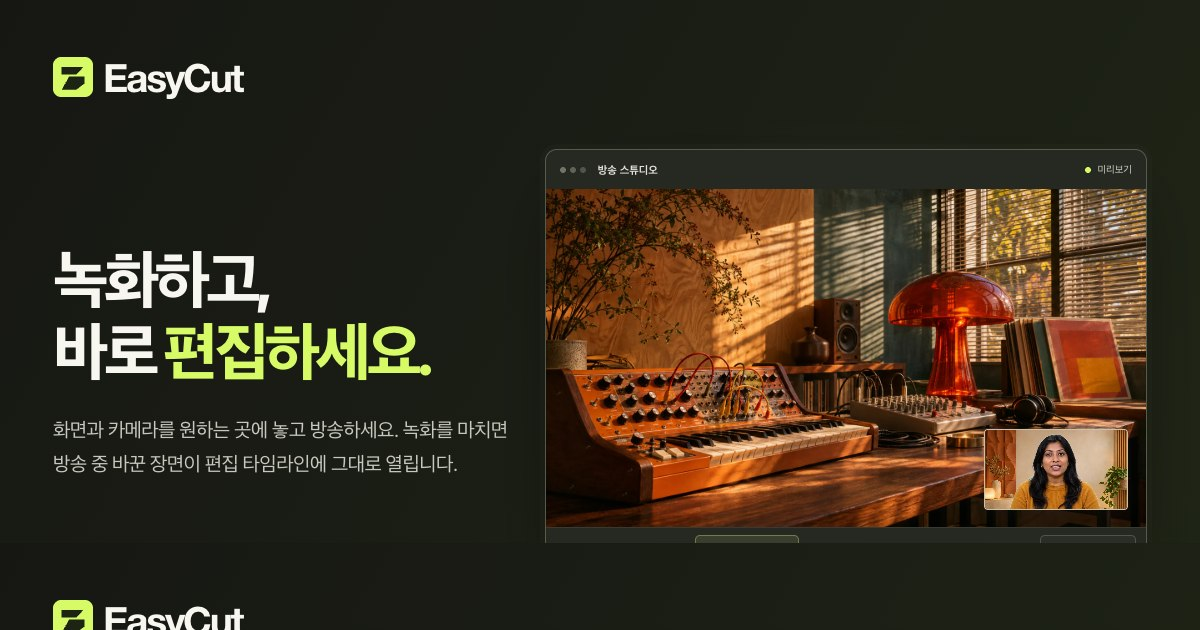
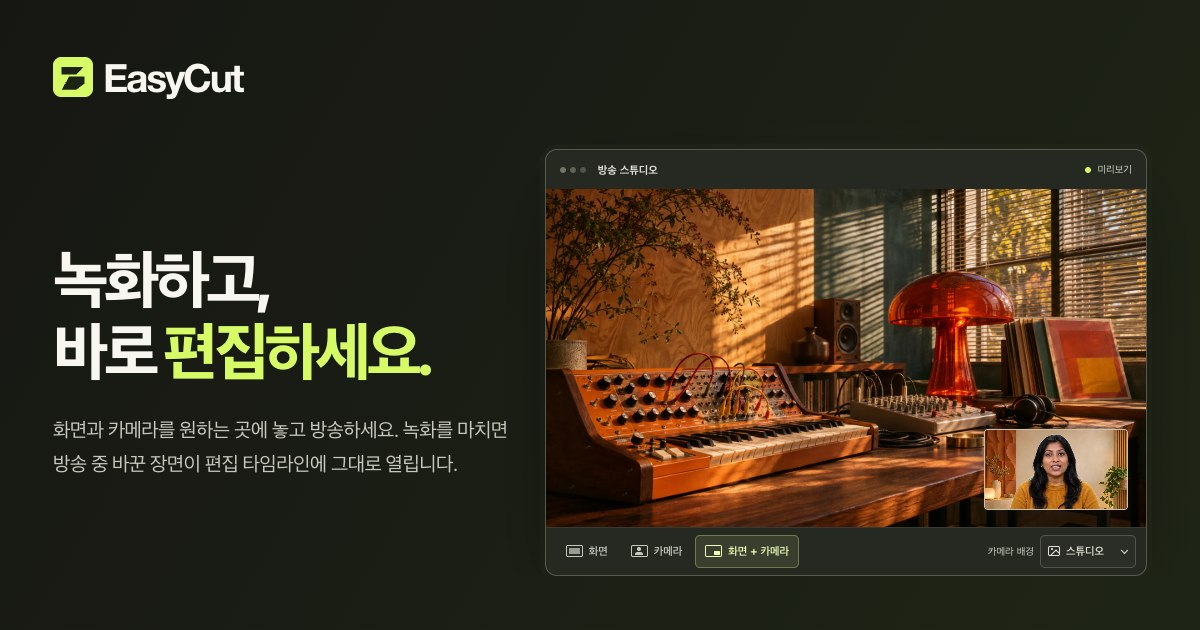
Offer camera background releases directly and link their public source

diff --git a/docs/index.html b/docs/index.html
@@ -27,8 +27,8 @@
   <script type="application/ld+json">
   {"@context":"https://schema.org","@graph":[
     {"@type":"Organization","@id":"https://contenjoo.github.io/easycut/#publisher","name":"주식회사 오늘배움","url":"https://learntoday.kr/services"},
-    {"@type":"SoftwareApplication","@id":"https://contenjoo.github.io/easycut/#mac","name":"EasyCut for Mac","applicationCategory":"MultimediaApplication","operatingSystem":"macOS 14 or later, Apple Silicon","softwareVersion":"1.18.1","url":"https://contenjoo.github.io/easycut/","downloadUrl":"https://github.com/contenjoo/easycut/releases/download/v1.18.1/EasyCut-1.18.1.dmg","offers":{"@type":"Offer","price":"0","priceCurrency":"KRW"},"publisher":{"@id":"https://contenjoo.github.io/easycut/#publisher"},"featureList":["화면·카메라 녹화","YouTube 방송 예약과 송출","장면별 타임라인","대본 편집과 자동 자막","AI 영상 만들기"]},
-    {"@type":"SoftwareApplication","@id":"https://contenjoo.github.io/easycut/#windows","name":"EasyCut for Windows","applicationCategory":"MultimediaApplication","operatingSystem":"Windows 10 or 11, x64","softwareVersion":"0.11.0","url":"https://contenjoo.github.io/easycut/","downloadUrl":"https://github.com/contenjoo/easycut/releases/download/win-v0.11.0/EasyCut_0.11.0_x64-setup.exe","offers":{"@type":"Offer","price":"0","priceCurrency":"KRW"},"publisher":{"@id":"https://contenjoo.github.io/easycut/#publisher"},"featureList":["화면·카메라 녹화","Google 계정으로 YouTube 방송","장면별 타임라인","대본 편집과 자동 자막","AI 영상 만들기"]}
+    {"@type":"SoftwareApplication","@id":"https://contenjoo.github.io/easycut/#mac","name":"EasyCut for Mac","applicationCategory":"MultimediaApplication","operatingSystem":"macOS 14 or later, Apple Silicon","softwareVersion":"1.19.0","url":"https://contenjoo.github.io/easycut/","downloadUrl":"https://github.com/contenjoo/easycut/releases/download/v1.19.0/EasyCut-1.19.0.dmg","offers":{"@type":"Offer","price":"0","priceCurrency":"KRW"},"publisher":{"@id":"https://contenjoo.github.io/easycut/#publisher"},"featureList":["화면·카메라 녹화","카메라 배경 흐림·기본 배경 4종·내 사진","YouTube 방송 예약과 송출","장면별 타임라인","대본 편집과 자동 자막","AI 영상 만들기"]},
+    {"@type":"SoftwareApplication","@id":"https://contenjoo.github.io/easycut/#windows","name":"EasyCut for Windows","applicationCategory":"MultimediaApplication","operatingSystem":"Windows 10 or 11, x64","softwareVersion":"0.12.0","url":"https://contenjoo.github.io/easycut/","downloadUrl":"https://github.com/contenjoo/easycut/releases/download/win-v0.12.0/EasyCut_0.12.0_x64-setup.exe","offers":{"@type":"Offer","price":"0","priceCurrency":"KRW"},"publisher":{"@id":"https://contenjoo.github.io/easycut/#publisher"},"featureList":["화면·카메라 녹화","카메라 배경 흐림·기본 배경 4종·내 사진","Google 계정으로 YouTube 방송","장면별 타임라인","대본 편집과 자동 자막","AI 영상 만들기"]}
   ]}
   </script>
 </head>
@@ -37,11 +37,11 @@
   <header class="mast">
     <div class="wrap mast-inner">
       <a class="brand" href="#top" aria-label="EasyCut 홈"><span class="brand-sign" aria-hidden="true"></span><span>EasyCut</span></a>
-      <nav class="main-nav" aria-label="주 메뉴"><a href="#studio">방송 스튜디오</a><a href="#features">편집 도구</a><a href="#backgrounds">카메라 배경</a></nav>
+      <nav class="main-nav" aria-label="주 메뉴"><a href="#studio">방송 스튜디오</a><a href="#features">편집 도구</a><a href="#backgrounds">카메라 배경</a><a href="#source">소스 코드</a></nav>
       <div class="mast-actions"><a class="header-download" href="#install">다운로드 <span aria-hidden="true">↓</span></a>
         <button class="nav-toggle" type="button" aria-label="메뉴 열기" aria-expanded="false" aria-controls="mobile-nav"><i aria-hidden="true"></i></button></div>
     </div>
-    <nav id="mobile-nav" aria-label="모바일 메뉴" hidden><a href="#studio">방송 스튜디오</a><a href="#features">편집 도구</a><a href="#backgrounds">카메라 배경</a><a href="#install">설치 안내</a></nav>
+    <nav id="mobile-nav" aria-label="모바일 메뉴" hidden><a href="#studio">방송 스튜디오</a><a href="#features">편집 도구</a><a href="#backgrounds">카메라 배경</a><a href="#install">설치 안내</a><a href="#source">소스 코드</a></nav>
   </header>
   <main id="main">
     <div class="studio-band" id="studio">
@@ -102,9 +102,9 @@
     <section class="rooms" id="backgrounds" aria-labelledby="rooms-title">
       <div class="wrap">
         <div class="section-intro">
-          <div><p class="overline"><span aria-hidden="true" class="mini-cut"></span>카메라 배경 <span class="edition-tag">테스트판</span></p>
+          <div><p class="overline"><span aria-hidden="true" class="mini-cut"></span>카메라 배경</p>
             <h2 id="rooms-title">어디에서 찍든,<br>원하는 배경으로.</h2></div>
-          <div class="section-aside"><p>인물은 선명하게 두고 뒤쪽만 흐리거나 내 사진을 넣으세요. 기본 배경을 선택하면 스튜디오에서 적용한 모습을 볼 수 있습니다.</p><a class="text-link" href="#test-builds">테스트판 안내 <span aria-hidden="true">↘</span></a></div>
+          <div class="section-aside"><p>배경만 흐리거나 내 사진을 넣어 녹화하세요. 아래 기본 배경을 누르면 발표자에게 적용한 모습을 미리 볼 수 있습니다.</p><a class="text-link" href="#install">EasyCut 다운로드 <span aria-hidden="true">↘</span></a></div>
         </div>
         <div class="room-grid">
           <a class="room-card" href="site/media/demo-studio.webp" data-room="studio" aria-label="스튜디오 배경 미리보기"><img src="site/media/room-studio.webp" width="544" height="306" loading="lazy" alt="따뜻한 테라코타 벽과 나무 패널"><span>스튜디오<i aria-hidden="true">↗</i></span></a>
@@ -124,10 +124,17 @@
     <section class="download-area" id="install" aria-labelledby="install-title"><div class="wrap">
       <div class="section-intro"><div><p class="overline"><span class="mini-cut" aria-hidden="true"></span> 정식 배포판</p><h2 id="install-title">EasyCut 다운로드</h2></div><p class="section-aside">기본 녹화·방송·편집은 무료입니다.<br>AI 구독과 API 사용료는 별도입니다.</p></div>
       <div class="download-grid">
-        <article class="os-panel" id="mac"><div class="os-head"><h3>Mac</h3><span class="version">v1.18.1</span></div><p>Apple Silicon M1 이상 · macOS 14 이상</p><a class="file-action" href="https://github.com/contenjoo/easycut/releases/download/v1.18.1/EasyCut-1.18.1.dmg">Mac용 다운로드 <span aria-hidden="true">↓</span></a><details><summary>설치 방법</summary><p>DMG를 열어 EasyCut을 응용 프로그램 폴더로 옮기세요. 처음 실행할 때 macOS가 확인을 요구하면 시스템 설정의 개인정보 보호 및 보안에서 앱 이름을 확인하세요.</p></details></article>
-        <article class="os-panel" id="windows"><div class="os-head"><h3>Windows</h3><span class="version">v0.11.0</span></div><p>Windows 10·11 · 64비트(x64)</p><a class="file-action" href="https://github.com/contenjoo/easycut/releases/download/win-v0.11.0/EasyCut_0.11.0_x64-setup.exe">Windows용 다운로드 <span aria-hidden="true">↓</span></a><details><summary>설치 방법</summary><p>받은 EXE 파일을 실행하고 설치 안내를 따르세요. 이 설치본에는 게시자 서명이 없어 Windows SmartScreen이 확인을 요청할 수 있습니다.</p></details></article>
+        <article class="os-panel" id="mac"><div class="os-head"><h3>Mac</h3><span class="version">v1.19.0</span></div><p>Apple Silicon M1 이상 · macOS 14 이상</p><a class="file-action" href="https://github.com/contenjoo/easycut/releases/download/v1.19.0/EasyCut-1.19.0.dmg">Mac용 다운로드 <span aria-hidden="true">↓</span></a><details><summary>설치 방법</summary><p>DMG를 열어 EasyCut을 응용 프로그램 폴더로 옮기세요. 처음 실행할 때 macOS가 확인을 요구하면 시스템 설정의 개인정보 보호 및 보안에서 앱 이름을 확인하세요.</p></details></article>
+        <article class="os-panel" id="windows"><div class="os-head"><h3>Windows</h3><span class="version">v0.12.0</span></div><p>Windows 10·11 · 64비트(x64)</p><a class="file-action" href="https://github.com/contenjoo/easycut/releases/download/win-v0.12.0/EasyCut_0.12.0_x64-setup.exe">Windows용 다운로드 <span aria-hidden="true">↓</span></a><details><summary>설치 방법</summary><p>받은 EXE 파일을 실행하고 설치 안내를 따르세요. 이 설치본에는 게시자 서명이 없어 Windows SmartScreen이 확인을 요청할 수 있습니다.</p></details></article>
       </div>
-      <aside id="test-builds" class="test-note"><div><h3>카메라 배경 테스트판</h3><p>Windows 0.12.0은 GitHub 로그인 후 ZIP으로 받을 수 있습니다. Mac 1.19.0은 테스트를 마쳤으며 아직 공개 전입니다.</p></div><a class="text-link" href="https://github.com/login?return_to=%2Fcontenjoo%2Feasycut%2Factions%2Fruns%2F44996436269%2Fartifacts%2F14744187055">Windows 테스트판 받기 <span aria-hidden="true">↗</span></a></aside>
+      <aside id="source" class="source-note" aria-labelledby="source-title">
+        <div><h3 id="source-title">EasyCut 소스 코드</h3><p>EasyCut은 MIT 라이선스로 공개한 오픈소스 영상 편집기입니다.</p></div>
+        <nav class="source-links" aria-label="소스 코드 보기">
+          <a class="text-link" href="https://github.com/contenjoo/easycut">전체 저장소 <span aria-hidden="true">↗</span></a>
+          <a class="text-link" href="https://github.com/contenjoo/easycut/tree/v1.19.0">Mac 1.19.0 소스 <span aria-hidden="true">↗</span></a>
+          <a class="text-link" href="https://github.com/contenjoo/easycut/tree/win-v0.12.0">Windows 0.12.0 소스 <span aria-hidden="true">↗</span></a>
+        </nav>
+      </aside>
     </div></section>
     <section class="faq paper" id="faq" aria-labelledby="faq-title"><div class="wrap extras-inner">
       <div><h2 id="faq-title">시작하기 전에</h2></div>
@@ -137,6 +144,6 @@
         <details><summary>자막과 완성 영상은 어떤 형식으로 저장하나요?<span aria-hidden="true"></span></summary><p>대본으로 자막을 만들거나 SRT 자막을 가져올 수 있습니다. 편집을 마친 영상은 MP4로 내보내고 자막은 SRT 파일로도 저장할 수 있습니다.</p></details>
       </div></div></section>
   </main>
-  <footer><div class="wrap foot-inner"><a class="brand" href="#top" aria-label="EasyCut 처음으로"><span class="brand-sign" aria-hidden="true"></span><span>EasyCut</span></a><div class="foot-links"><a href="youtube-privacy.html">개인정보처리방침</a><a href="youtube-terms.html">이용조건</a><a href="https://github.com/contenjoo/easycut">GitHub ↗</a><a href="https://learntoday.kr/services">주식회사 오늘배움 ↗</a></div></div></footer>
+  <footer><div class="wrap foot-inner"><a class="brand" href="#top" aria-label="EasyCut 처음으로"><span class="brand-sign" aria-hidden="true"></span><span>EasyCut</span></a><div class="foot-links"><a href="youtube-privacy.html">개인정보처리방침</a><a href="youtube-terms.html">이용조건</a><a href="https://github.com/contenjoo/easycut">소스 코드 (GitHub) ↗</a><a href="https://learntoday.kr/services">주식회사 오늘배움 ↗</a></div></div></footer>
 </body>
 </html>

diff --git a/docs/site/home.css b/docs/site/home.css
@@ -44,7 +44,7 @@
 .rooms,.download-area,.extras,.faq{padding:clamp(58px,6.6vw,102px) 0}
 .rooms{background:#23251f}.section-intro{display:flex;justify-content:space-between;align-items:flex-end;gap:32px;margin-bottom:38px}.overline{margin-bottom:16px;color:var(--lime)}
 .mini-cut{height:10px;width:17px;display:inline-block;transform:skewX(-30deg);background:linear-gradient(to right,currentColor 0 45%,transparent 45% 58%,currentColor 58% 100%)}
-.edition-tag,.version{font-size:11px;letter-spacing:.03em;line-height:1.5;border:1px solid #60634e;color:#e0e2cc;border-radius:30px;padding:2px 8px;font-weight:600}
+.version{font-size:11px;letter-spacing:.03em;line-height:1.5;border:1px solid #60634e;color:#e0e2cc;border-radius:30px;padding:2px 8px;font-weight:600}
 .section-intro h2,.extras h2,.faq h2{font-size:clamp(35px,3.5vw,56px)}.section-aside{max-width:365px;display:block;color:#c0c2b7;font-size:16px;line-height:1.65;letter-spacing:-.025em}.section-aside .text-link{margin-top:12px}.text-link{width:fit-content;color:var(--lime);min-height:35px}.text-link:hover{text-decoration:underline;text-underline-offset:4px}
 .room-grid{display:grid;grid-template-columns:repeat(4,minmax(0,1fr));gap:clamp(12px,1.7vw,24px)}.room-card{display:block;min-width:0}.room-card img{width:100%;height:auto;border-radius:9px;background:#3f4035}.room-card>span{display:flex;align-items:center;justify-content:space-between;margin-top:10px;font-size:17px;letter-spacing:-.025em;font-weight:650}.room-card i{font:19px/1 Arial;color:#b2b5a7}.room-card:hover i{color:var(--lime)}.room-card:hover img{outline:2px solid var(--lime);outline-offset:2px}
 .paper{background:var(--paper);color:var(--ink)}.paper .overline{color:#4c6332}.extras-inner{display:grid;grid-template-columns:minmax(0,.85fr) minmax(0,1.15fr);gap:clamp(40px,7vw,108px)}
@@ -54,12 +54,12 @@ summary::-webkit-details-marker{display:none}.extra-options summary span:before,
 .extra-options details p{font-size:15px;line-height:1.73;color:var(--soft-ink);padding:0 28px 19px 0}.extra-options .text-link{color:#465e22;margin-bottom:16px}.extra-options details p:has(+a){padding-bottom:3px}
 .download-area{background:#192017}.download-grid{display:grid;grid-template-columns:repeat(2,minmax(0,1fr));gap:20px}.os-panel{padding:clamp(22px,2.7vw,40px);background:#272f24;border:1px solid #45503f;border-radius:14px}
 .os-head{display:flex;align-items:center;gap:12px}.os-head h3{font-family:"Helvetica Neue",Arial,sans-serif;font-size:clamp(32px,3vw,46px);letter-spacing:-.065em;line-height:1.1}.os-panel>p{margin:12px 0 23px;color:#c7cbbd;font-size:15px}.file-action{display:flex;justify-content:space-between;color:#16200e;background:#d6fb66;border-radius:7px;padding:14px 18px}.file-action span{font:20px/1 Arial}.os-panel details{border-color:#4b5546;margin-top:18px}.os-panel summary{padding:12px 0 0;font-size:14px;color:#d9ddcf}.os-panel summary:after{font-size:18px;color:#bfcbaa}.os-panel details p{font-size:14px;color:#c7cbbd;margin-top:8px}.version{font-family:ui-monospace,monospace;color:#d6ddbe}
-.test-note{margin-top:24px;padding:19px 0 0;border-top:1px solid #414b3e;display:flex;align-items:center;justify-content:space-between;gap:22px}.test-note h3{font-size:16px;margin-bottom:4px}.test-note p{color:#bfc6b4;font-size:14px}.test-note a{white-space:nowrap}
+.source-note{margin-top:24px;padding:19px 0 0;border-top:1px solid #414b3e;display:flex;align-items:center;justify-content:space-between;gap:22px}.source-note h3{font-size:16px;margin-bottom:4px}.source-note p{color:#bfc6b4;font-size:14px}.source-note a{white-space:nowrap}.source-links{display:flex;flex-wrap:wrap;gap:4px 20px}
 .faq{padding-block:clamp(51px,5vw,85px)}.faq h2{font-size:clamp(30px,2.8vw,43px)}
 footer{background:#141610}.foot-inner{padding:30px 0;gap:24px}.foot-inner .brand{font-size:24px}.foot-inner .brand-sign{height:26px;width:26px;border-radius:6px}.foot-links{gap:20px;flex-wrap:wrap}.foot-links a{font-size:12px}
 @media(min-width:1600px){.hero h1{font-size:78px}}
 @media(max-width:1020px){.hero{grid-template-columns:minmax(0,.84fr) minmax(0,1.16fr);gap:24px}.hero h1{font-size:clamp(43px,5vw,55px)}.hero-actions{gap:15px}.main-nav{gap:24px;margin-right:5px}.wide{display:none}.workflow article{gap:10px;padding-inline:20px}.intro{font-size:16px}}
 @media(max-width:800px){.mast-inner{height:62px}.brand{font-size:26px}.brand-sign{width:29px;height:29px}.main-nav{display:none}.nav-toggle{display:block}.hero{grid-template-columns:1fr;gap:32px;padding-top:38px;padding-bottom:32px}.hero-copy{max-width:620px}.hero h1{font-size:clamp(49px,7.5vw,70px)}.platform{margin-bottom:16px;font-size:12px}.intro{margin-top:16px;max-width:33em}.hero-actions{margin-top:22px}.primary-action{padding:13px 19px}.workflow{padding:22px 0 25px}.workflow article{display:block;padding-inline:16px}.workflow-icon{margin-bottom:10px}.workflow h2{font-size:16px}.workflow p{font-size:13px}.section-intro{align-items:flex-start;gap:20px}.section-aside{max-width:45%;font-size:15px}.room-grid{grid-template-columns:repeat(2,minmax(0,1fr));gap:20px 14px}.extras-inner{grid-template-columns:1fr;gap:28px}.foot-inner{align-items:flex-start}.foot-links{justify-content:flex-end;gap:10px 16px}}
-@media(max-width:530px){.mast-inner{height:58px}.header-download{font-size:12px;padding:7px 12px;gap:8px}.mast-actions{gap:8px}.brand{gap:8px}.hero h1{font-size:clamp(43px,10.6vw,56px)}.platform{font-size:11px}.hero-actions{gap:17px}.primary-action,.quiet-action{font-size:14px}.intro{font-size:15px}.workflow{grid-template-columns:1fr;padding:3px 0 14px}.workflow article{display:flex;align-items:center;gap:16px;border:0;border-bottom:1px solid #30332a;padding:14px 0}.workflow article:first-child{border-bottom:1px solid #30332a}.workflow article:last-child{border:0}.workflow h2{font-size:15px;margin:0 0 2px}.workflow p{font-size:13px}.workflow-icon{margin:0}.section-intro{display:block;margin-bottom:23px}.section-aside{max-width:100%;margin-top:15px}.section-intro h2,.extras h2{font-size:clamp(33px,7.6vw,41px)}.room-card>span{font-size:15px}.download-grid{grid-template-columns:1fr;gap:12px}.test-note{display:block}.test-note .text-link{margin-top:8px}.extra-options summary{font-size:16px}.extra-options details p{font-size:14px;padding-right:0}.foot-inner{display:block}.foot-links{justify-content:flex-start;margin-top:22px}.rooms,.download-area,.extras,.faq{padding-block:49px}}
+@media(max-width:530px){.mast-inner{height:58px}.header-download{font-size:12px;padding:7px 12px;gap:8px}.mast-actions{gap:8px}.brand{gap:8px}.hero h1{font-size:clamp(43px,10.6vw,56px)}.platform{font-size:11px}.hero-actions{gap:17px}.primary-action,.quiet-action{font-size:14px}.intro{font-size:15px}.workflow{grid-template-columns:1fr;padding:3px 0 14px}.workflow article{display:flex;align-items:center;gap:16px;border:0;border-bottom:1px solid #30332a;padding:14px 0}.workflow article:first-child{border-bottom:1px solid #30332a}.workflow article:last-child{border:0}.workflow h2{font-size:15px;margin:0 0 2px}.workflow p{font-size:13px}.workflow-icon{margin:0}.section-intro{display:block;margin-bottom:23px}.section-aside{max-width:100%;margin-top:15px}.section-intro h2,.extras h2{font-size:clamp(33px,7.6vw,41px)}.room-card>span{font-size:15px}.download-grid{grid-template-columns:1fr;gap:12px}.source-note{display:block}.source-note .text-link{margin-top:8px}.extra-options summary{font-size:16px}.extra-options details p{font-size:14px;padding-right:0}.foot-inner{display:block}.foot-links{justify-content:flex-start;margin-top:22px}.rooms,.download-area,.extras,.faq{padding-block:49px}}
 @media(min-width:801px){#mobile-nav{display:none!important}}
 @media(prefers-reduced-motion:no-preference){html{scroll-behavior:smooth}.room-card img,.primary-action,.file-action,.quiet-action,.header-download{transition:background .15s,color .15s,outline-color .15s}}

diff --git a/docs/site/studio-demo.js b/docs/site/studio-demo.js
@@ -5,13 +5,13 @@ const copy = {
   ko: {
     studio: "방송 스튜디오", preview: "미리보기", region: "홈페이지 방송 스튜디오 체험",
     scenes: ["화면", "카메라", "화면 + 카메라"], scene: "장면 선택",
-    background: "카메라 배경 (테스트판)", beta: "배경 · 테스트판", backgrounds: ["스튜디오", "서재", "로프트", "미드나이트"],
+    background: "카메라 배경", backgrounds: ["스튜디오", "서재", "로프트", "미드나이트"],
     screenAlt: "공유 화면에 표시된 스튜디오 풍경", personAlt: name => name + " 배경을 적용한 발표자",
   },
   en: {
     studio: "Broadcast Studio", preview: "Preview", region: "Interactive studio demo",
     scenes: ["Screen", "Camera", "Screen + camera"], scene: "Choose a scene",
-    background: "Camera backdrop (test build)", beta: "Backdrop · beta", backgrounds: ["Studio", "Library", "Loft", "Midnight"],
+    background: "Camera backdrop", backgrounds: ["Studio", "Library", "Loft", "Midnight"],
     screenAlt: "The studio interior on the shared screen", personAlt: name => "Presenter with the " + name + " background",
   },
 };
@@ -48,7 +48,7 @@ class StudioDemo extends HTMLElement {
           </fieldset>
           <label class="ecd-backdrop">
             <span class="ecd-visually-hidden">${w.background}</span>
-            <span class="ecd-beta-caption" aria-hidden="true">${w.beta}</span>
+            <span class="ecd-background-caption" aria-hidden="true">${w.background}</span>
             <span class="ecd-select-wrap">
             <i class="ecd-background-icon" aria-hidden="true"></i>
             <select>${backgrounds.map((id, i) => `<option value="${id}">${w.backgrounds[i]}</option>`).join("")}</select>

diff --git a/docs/youtube-studio.html b/docs/youtube-studio.html
@@ -31,6 +31,8 @@ a{color:#17589a;text-underline-offset:.18em}h1,h2{line-height:1.35}h1{font-size:
 <li>방송 중에는 미리보기 아래에서 장면을 전환합니다. <strong>종료하고 편집</strong>을 누르면 화면과 카메라가 장면별 클립으로 타임라인에 들어옵니다.</li>
 </ol>
 <p>본인 채널에서 YouTube 라이브 스트리밍을 사용할 수 있어야 합니다. 현재 기기의 예약 목록에는 이 기기에서 해당 채널로 예약한 방송이 표시됩니다. 다른 기기에서 만든 예약까지 보려면 YouTube Studio를 여세요.</p>
+<h2>카메라 배경 설정</h2>
+<p>Mac 1.19.0과 Windows 0.12.0부터 카메라를 켠 뒤 <strong>카메라 배경</strong>에서 배경 흐림, 기본 배경 4종 또는 내 사진을 고를 수 있습니다. 방송 중에 바꾼 배경도 카메라 트랙에 함께 녹화되어 편집기에서 그대로 재생됩니다.</p>
 <h2>다운로드와 도움말</h2>
 <p><a href="https://contenjoo.github.io/easycut/">Mac·Windows 설치본</a> · <a href="https://github.com/contenjoo/easycut">소스 코드와 사용 안내</a></p>
 <p>주식회사 오늘배움 · <a href="mailto:joo@learntoday.kr">joo@learntoday.kr</a></p>

diff --git a/docs/site/studio-demo.css b/docs/site/studio-demo.css
@@ -112,7 +112,7 @@ easycut-studio-demo [hidden] { display: none !important; }
 .ecd-layout-pip::after { content: ""; position: absolute; width: 6px; height: 4px; right: 1px; bottom: 1px; border-radius: 1px; background: currentColor; }
 
 .ecd-backdrop { position: relative; display: inline-flex; margin: 0; color: #dedfd1; align-items: center; gap: 6px; }
-.ecd-beta-caption { color: #c6cbb9; font-size: 10px; white-space: nowrap; }
+.ecd-background-caption { color: #c6cbb9; font-size: 10px; white-space: nowrap; }
 .ecd-select-wrap { position: relative; display: flex; }
 .ecd-backdrop select {
   background-color: #2b2e27; color: inherit;
@@ -136,7 +136,7 @@ easycut-studio-demo [hidden] { display: none !important; }
 
 @container ecd (max-width: 530px) {
   .ecd-backdrop { display: flex; flex-direction: column; align-items: flex-start; gap: 2px; }
-  .ecd-beta-caption { font-size: 9px; }
+  .ecd-background-caption { font-size: 9px; }
   .ecd-backdrop select { height: 25px; }
 }
 

diff --git a/README.en.md b/README.en.md
@@ -4,9 +4,9 @@
 
 EasyCut is a Mac and Windows video editor that puts simple cut editing, transcript-based editing with speech recognition (STT), captions, screen & face recording and AI editing in one app. From macOS 1.13.0 and Windows 0.7.0, describe an animation, explainer or promo video, review its sample frames, then render it and continue editing on the timeline.
 
-**[⬇ Download Mac 1.18.1](https://github.com/contenjoo/easycut/releases/download/v1.18.1/EasyCut-1.18.1.dmg)** · [Website](https://contenjoo.github.io/easycut/)
+**[⬇ Download Mac 1.19.0](https://github.com/contenjoo/easycut/releases/download/v1.19.0/EasyCut-1.19.0.dmg)** · [Website](https://contenjoo.github.io/easycut/)
 
-Windows: [download EasyCut for Windows](https://github.com/contenjoo/easycut/releases/download/win-v0.11.0/EasyCut_0.11.0_x64-setup.exe) · [Windows release notes](https://github.com/contenjoo/easycut/releases/tag/win-v0.11.0) · source in [`windows/`](windows)
+Windows: [download EasyCut for Windows](https://github.com/contenjoo/easycut/releases/download/win-v0.12.0/EasyCut_0.12.0_x64-setup.exe) · [Windows release notes](https://github.com/contenjoo/easycut/releases/tag/win-v0.12.0) · source in [`windows/`](windows)
 
 Open **Broadcast Studio** on Mac or Windows to connect your YouTube channel, schedule a broadcast or go live. Move, resize and reorder the screen and camera, then continue editing each scene in the timeline after recording. [Studio guide](docs/youtube-studio.html)
 
@@ -33,7 +33,7 @@ The Mac app follows your macOS language: English on English (and any non-Korean)
 
 Requires an **Apple Silicon Mac (M1 or later) with macOS 14 or later**.
 
-1. Download [EasyCut-1.18.1.dmg](https://github.com/contenjoo/easycut/releases/download/v1.18.1/EasyCut-1.18.1.dmg), open it and drag EasyCut into the Applications folder.
+1. Download [EasyCut-1.19.0.dmg](https://github.com/contenjoo/easycut/releases/download/v1.19.0/EasyCut-1.19.0.dmg), open it and drag EasyCut into the Applications folder.
 2. The first time only: the app is not notarized, so if macOS warns you, go to System Settings › Privacy & Security and click **Open Anyway**.
 3. Download the Whisper model (574 MB) with **Turn On Whisper** in the Transcript tab, and the YouTube tool (yt-dlp) with **Install YouTube Tool** in the link window — once each.
 
@@ -44,7 +44,7 @@ Updates are automatic from 1.3.0 on: when a new version is released, the app tel
 
 ### Windows
 
-Run [EasyCut_0.11.0_x64-setup.exe](https://github.com/contenjoo/easycut/releases/download/win-v0.11.0/EasyCut_0.11.0_x64-setup.exe) on **Windows 10/11 64-bit**. Start a new video from **Create a Video** in the toolbar. Prepare Node.js LTS, npm and Chrome or Edge for video creation. Rendering packages are installed in the app's support folder on first use.
+Run [EasyCut_0.12.0_x64-setup.exe](https://github.com/contenjoo/easycut/releases/download/win-v0.12.0/EasyCut_0.12.0_x64-setup.exe) on **Windows 10/11 64-bit**. Start a new video from **Create a Video** in the toolbar. Prepare Node.js LTS, npm and Chrome or Edge for video creation. Rendering packages are installed in the app's support folder on first use.
 
 ## Build from source
 
